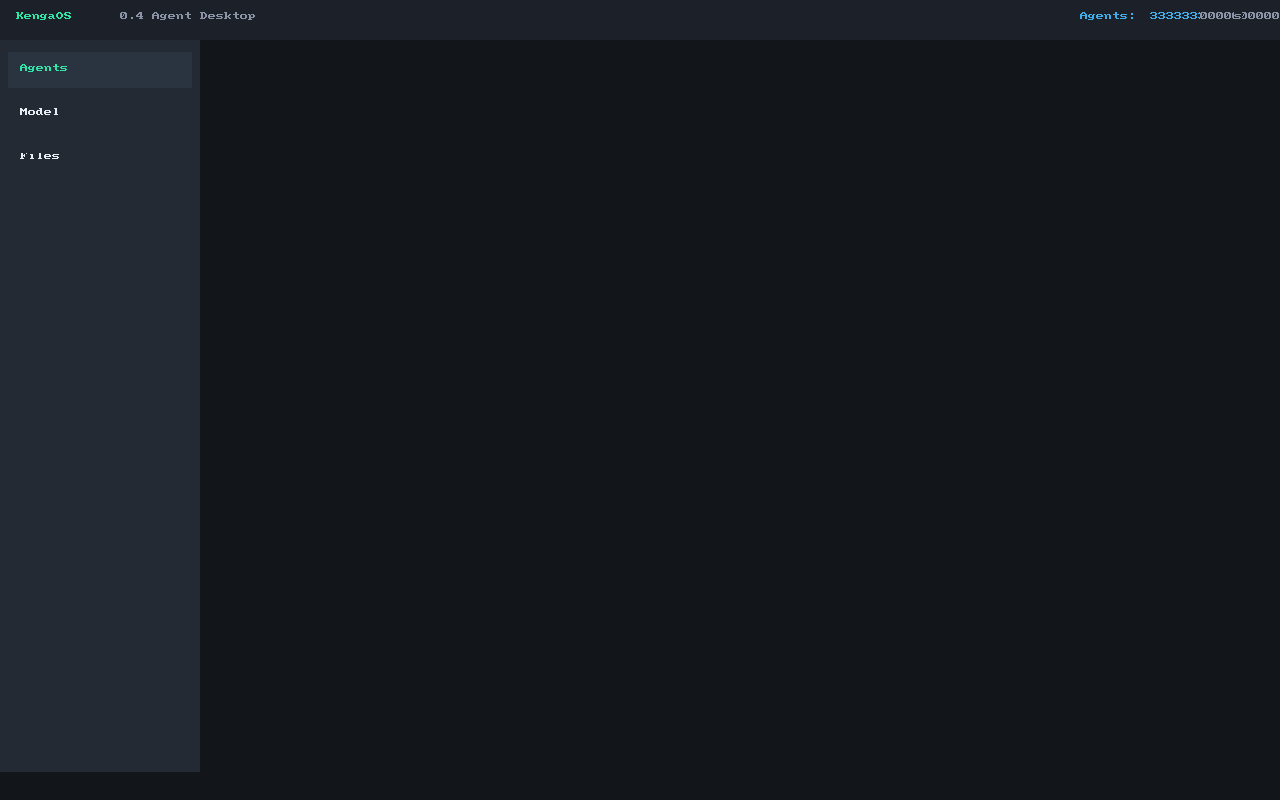
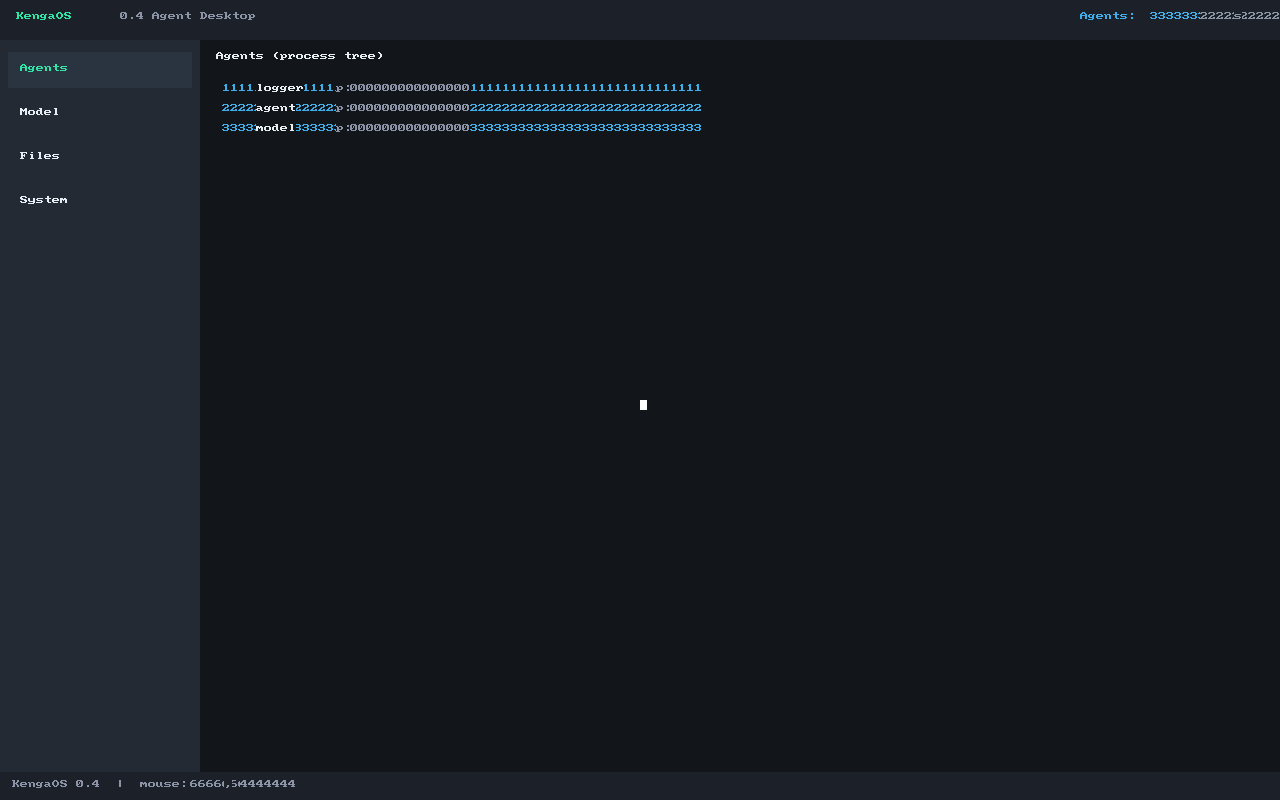
gui: fix frozen/failed desktop (M5.2)
Root cause of the interactive freeze: the PIT timer IRQ0 was masked in the
master PIC, so the init screen (which waits on uptime) never advanced and
the desktop loop never ran. Explicitly unmask IRQ0 before sti.
Also: event-driven redraw (only on mouse move/click/app switch) and fast
rect fill (direct 32-bit writes) so the desktop stays responsive.
Verified: desktop renders with sidebar/topbar/accent/text.

Changed region(s): [[0.1875, 0.0625, 0.5312, 0.1875], [0.1562, 0.9688, 0.2188, 1.0], [0.0312, 0.9688, 0.0625, 1.0]]

diff --git a/kernel/kf_gui.c b/kernel/kf_gui.c
@@ -41,10 +41,8 @@ static int model_a = 0, model_b = 1;
 static int model_out = 0;
 static char* model_out_s = "?";
 
-/* --- drawing helpers (via k_fb_*) --- */
-static void rect(int x,int y,int w,int h,int c){
-    for(int yy=y;yy<y+h && yy<H;yy++) for(int xx=x;xx<x+w && xx<W;xx++) k_fb_putpixel(xx,yy,c);
-}
+/* --- drawing helpers (fast fills + text) --- */
+static void rect(int x,int y,int w,int h,int c){ k_fb_fill_rect(x,y,w,h,c); }
 static void txt(int x,int y,int fg,int bg,const char* s){ k_fb_text(x,y,fg,bg,s); }
 
 /* a simple clickable button: returns 1 if (mx,my) inside */
@@ -223,6 +221,9 @@ int64_t k_gui_init(void) {
     k_fb_con_init();           /* clear screen */
     k_proc_init();             /* spawn logger + agent + model agents */
     k_mouse_init();            /* PS/2 mouse IRQ12 */
+    uint8_t imr0;
+    __asm__ __volatile__("inb %1, %0" : "=a"(imr0) : "Nd"((uint16_t)0x21));
+    __asm__ __volatile__("outb %0, %1" : : "a"((uint8_t)(imr0 & ~0x03)), "Nd"((uint16_t)0x21)); /* ensure IRQ0+IRQ1 unmasked */
     __asm__ __volatile__("sti");               /* enable interrupts (timer/kbd/mouse) */
     /* boot / init screen: wait for ENTER to open the desktop */
     rect(0,0,W,H,C_BG);
@@ -235,7 +236,9 @@ int64_t k_gui_init(void) {
     for(;;){
         if(k_kbd_pending()){ int c=(int)k_kbd_read(); if(c=='\n') break; }
         if(k_time_uptime_ms() - boot_at > 2000) break;   /* auto to desktop */
-        if(++spins > 100000000ULL) break;                /* safety fallback */
+        if(++spins == 5000000ULL){ __asm__ __volatile__("outb %0, %1" : : "a"((uint8_t)'U'), "Nd"((uint16_t)0x3F8)); }
+        if(++spins > 20000000ULL) break;                 /* safety fallback */
+        __asm__ __volatile__("hlt");                     /* sleep until an IRQ */
     }
     /* desktop loop: event-driven, redraw only on change (mouse move / click /
        app switch), otherwise idle on hlt so the system stays responsive. */
@@ -247,7 +250,9 @@ int64_t k_gui_init(void) {
         if(bx && !mprev_buttons){ handle_click(mx, my); changed = 1; }
         mprev_buttons = bx;
         if(changed){
+            __asm__ __volatile__("outb %0, %1" : : "a"((uint8_t)'B'), "Nd"((uint16_t)0x3F8)); /* DIAG */
             draw_desktop();
+            __asm__ __volatile__("outb %0, %1" : : "a"((uint8_t)'E'), "Nd"((uint16_t)0x3F8)); /* DIAG */
             last_mx = mx; last_my = my; last_app = cur_app; last_btn = bx;
         }
         __asm__ __volatile__("hlt");

diff --git a/kernel/kf_fb.c b/kernel/kf_fb.c
@@ -127,6 +127,24 @@ int64_t k_fb_fill(int64_t color) {
     return fb_ok;
 }
 
+/* Fast rect fill: direct 32-bit writes (no per-pixel helper call). */
+void k_fb_fill_rect(int64_t x0, int64_t y0, int64_t w, int64_t h, int64_t color) {
+    if (!fb_ok) return;
+    if (fb_bpp != 32) { for (int64_t yy = y0; yy < y0 + h && yy < fb_h; yy++) for (int64_t xx = x0; xx < x0 + w && xx < fb_w; xx++) fb_put((uint32_t)xx, (uint32_t)yy, (uint32_t)color); return; }
+    if (x0 < 0) { w += x0; x0 = 0; }
+    if (y0 < 0) { h += y0; y0 = 0; }
+    if (x0 >= fb_w || y0 >= fb_h) return;
+    if (x0 + w > fb_w) w = fb_w - x0;
+    if (y0 + h > fb_h) h = fb_h - y0;
+    if (w <= 0 || h <= 0) return;
+    uint32_t c = (uint32_t)color;
+    uintptr_t base = fb_addr + (uintptr_t)y0 * fb_pitch + (uintptr_t)x0 * 4;
+    for (int64_t yy = 0; yy < h; yy++) {
+        volatile uint32_t* row = (volatile uint32_t*)(base + (uintptr_t)yy * fb_pitch);
+        for (int64_t xx = 0; xx < w; xx++) row[xx] = c;
+    }
+}
+
 /* Outlined rectangle. */
 int64_t k_fb_rect(int64_t x0, int64_t y0, int64_t w, int64_t h, int64_t color) {
     if (w < 1 || h < 1) return 0;

diff --git a/kernel/kf_rt.h b/kernel/kf_rt.h
@@ -166,6 +166,7 @@ int64_t k_fb_width(void);
 int64_t k_fb_height(void);
 int64_t k_fb_putpixel(int64_t x, int64_t y, int64_t color);
 int64_t k_fb_fill(int64_t color);
+void k_fb_fill_rect(int64_t x0, int64_t y0, int64_t w, int64_t h, int64_t color);
 int64_t k_fb_rect(int64_t x, int64_t y, int64_t w, int64_t h, int64_t color);
 int64_t k_fb_hrect(int64_t x, int64_t y, int64_t w, int64_t h, int64_t color);
 int64_t k_fb_text(int64_t x, int64_t y, int64_t fg, int64_t bg, const char* s);
